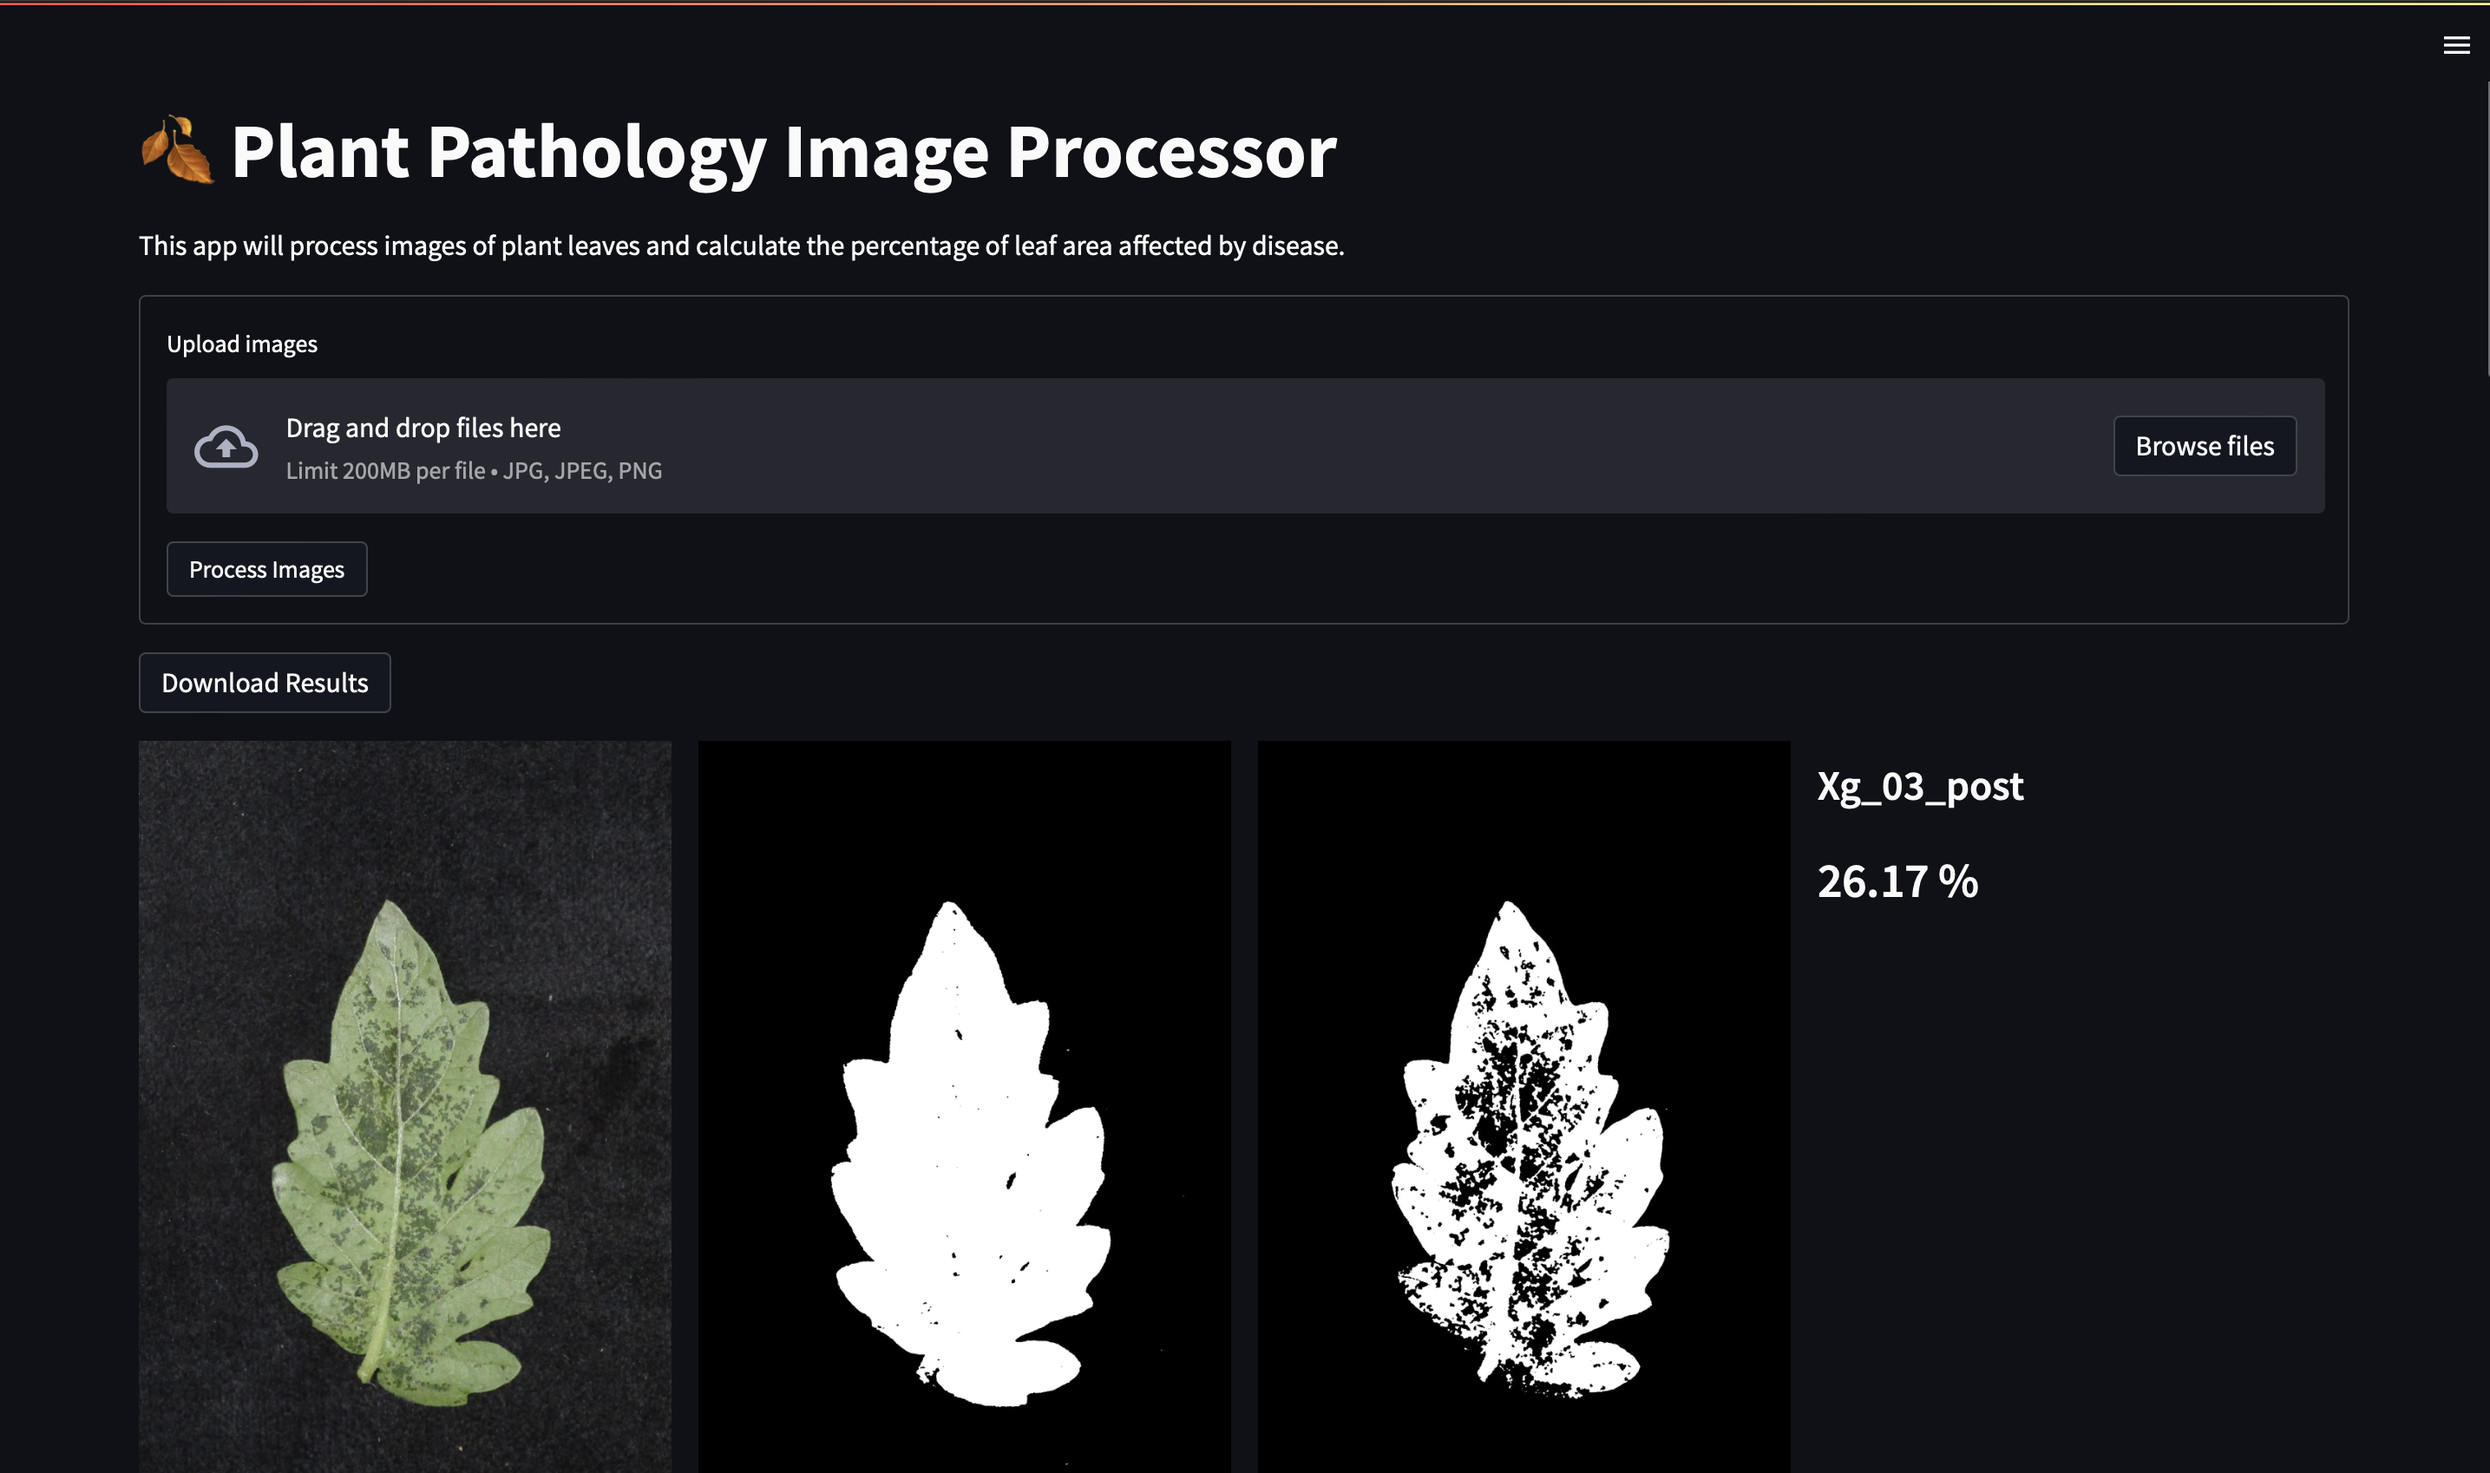
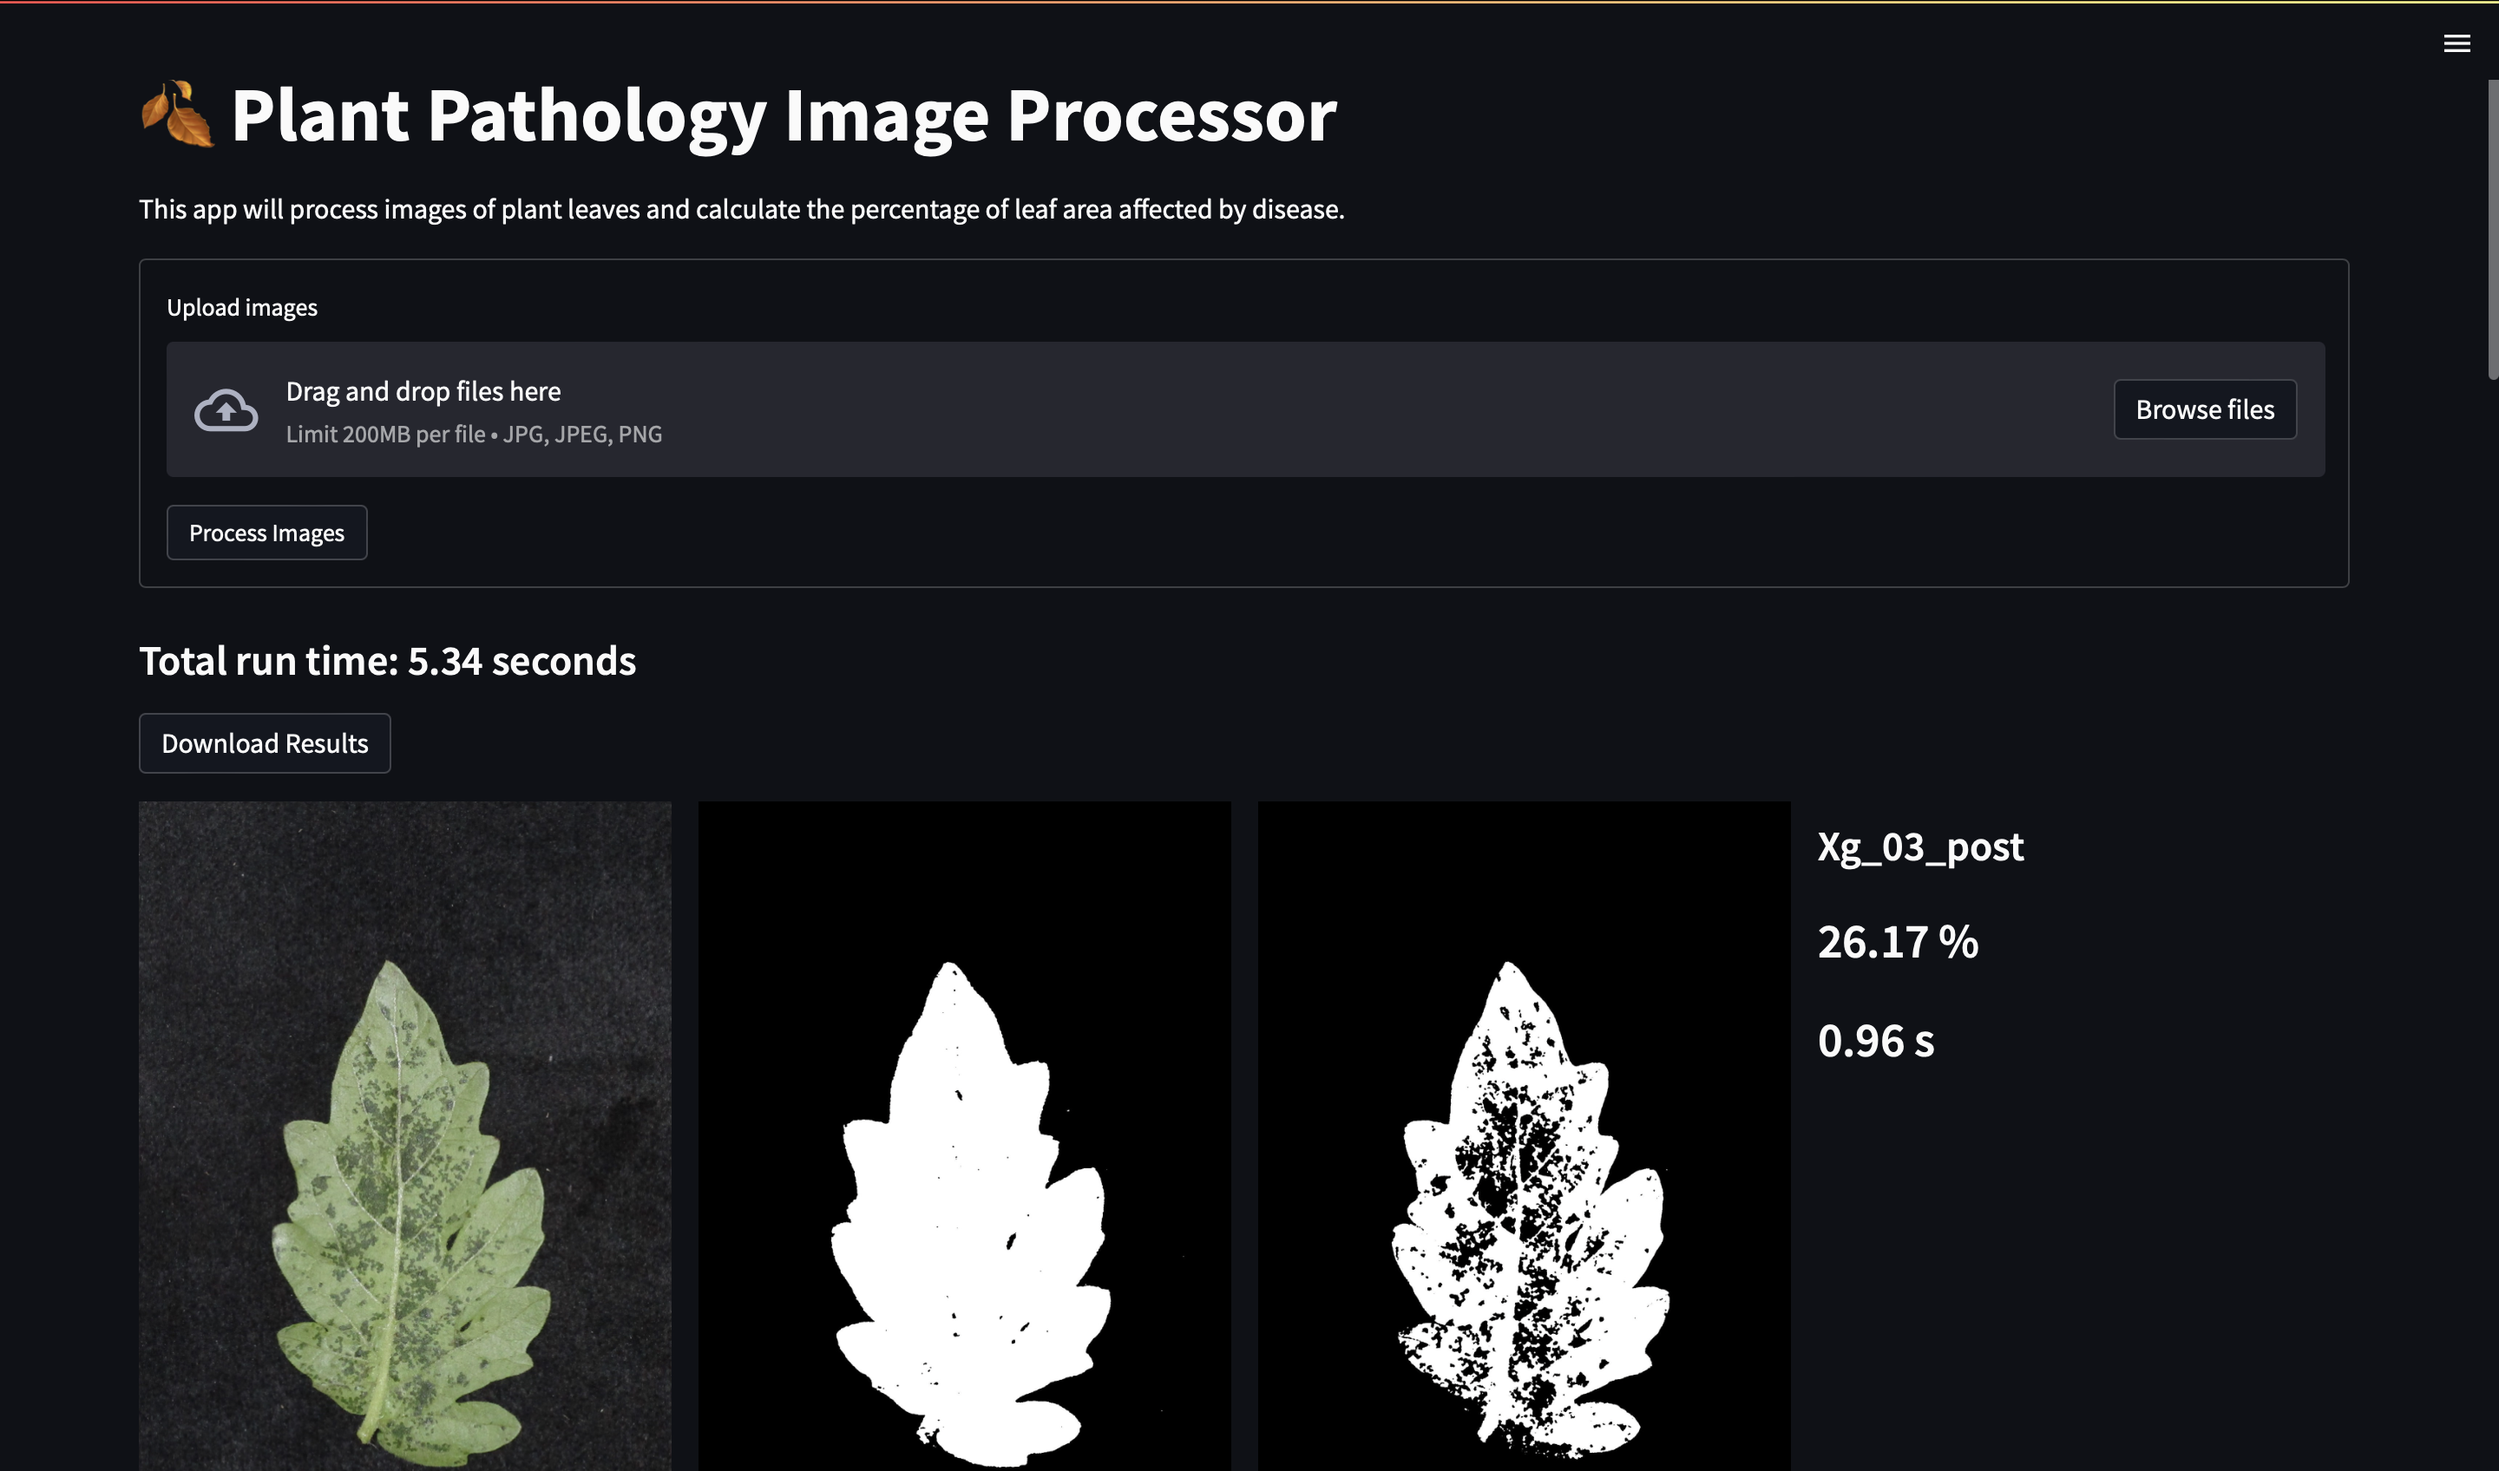
track run time + demo image updated

diff --git a/src/leaflesiondetector/ui_functions.py b/src/leaflesiondetector/ui_functions.py
@@ -36,11 +36,13 @@ def process_uploaded_images() -> None:
     dir = os.listdir(input_folder_path)
     count = 0
     my_bar = st.progress(count)
+    start_time = time.time()
     for image_name in dir:
         count += 1
         lesion_detector.process_image(image_name)
         my_bar.progress(count / len(dir))
-
+    end_time = time.time()
+    st.markdown(f"#### Total run time: {'%.2f'%(end_time - start_time)} seconds")
     my_bar.empty()
 
 
@@ -60,7 +62,7 @@ def display_results() -> None:
             f"{output_folder_path}/lesion_area_binaries/{filename}_lesion_area_binary.jpeg"
         )
         cols[3].markdown(
-            f"#### {filename}\n ### {'%.2f'%lesion_detector.results_df.loc[lesion_detector.results_df['image'] == filename, 'percentage of leaf area'].values[0]} %"
+            f"#### {filename}\n ### {'%.2f'%lesion_detector.results_df.loc[lesion_detector.results_df['image'] == filename, 'percentage of leaf area'].values[0]} %\n ### {'%.2f'%lesion_detector.results_df.loc[lesion_detector.results_df['image'] == filename, 'run time'].values[0]} s"
         )
 
 

diff --git a/src/leaflesiondetector/lesion_detector.py b/src/leaflesiondetector/lesion_detector.py
@@ -5,6 +5,7 @@ import os
 from PIL import Image
 from PIL import ImageFilter
 import json
+import time
 
 # File name and extension of the current image
 filename = None
@@ -12,7 +13,7 @@ file_extension = None
 
 # Using a Dataframe to save data to a CSV
 results_df = pd.DataFrame(
-    columns=["image", "leaf area", "lesion area", "percentage of leaf area"]
+    columns=["image", "leaf area", "lesion area", "percentage of leaf area", "run time"]
 )
 
 # Read in settings from JSON file
@@ -142,6 +143,8 @@ def process_image(image_file_name: str) -> None:
             ),
         ]
     )
+
+    start_time = time.time()
     img = Image.open(settings["input_folder_path"] + "/" + filename + file_extension)
     get_leaf_area_binary(img).save(
         settings["output_folder_path"]
@@ -153,3 +156,6 @@ def process_image(image_file_name: str) -> None:
         + "/lesion_area_binaries/"
         + f"{filename}_lesion_area_binary.jpeg"
     )
+    run_time = time.time() - start_time
+
+    results_df.loc[results_df["image"] == filename, "run time"] = run_time
